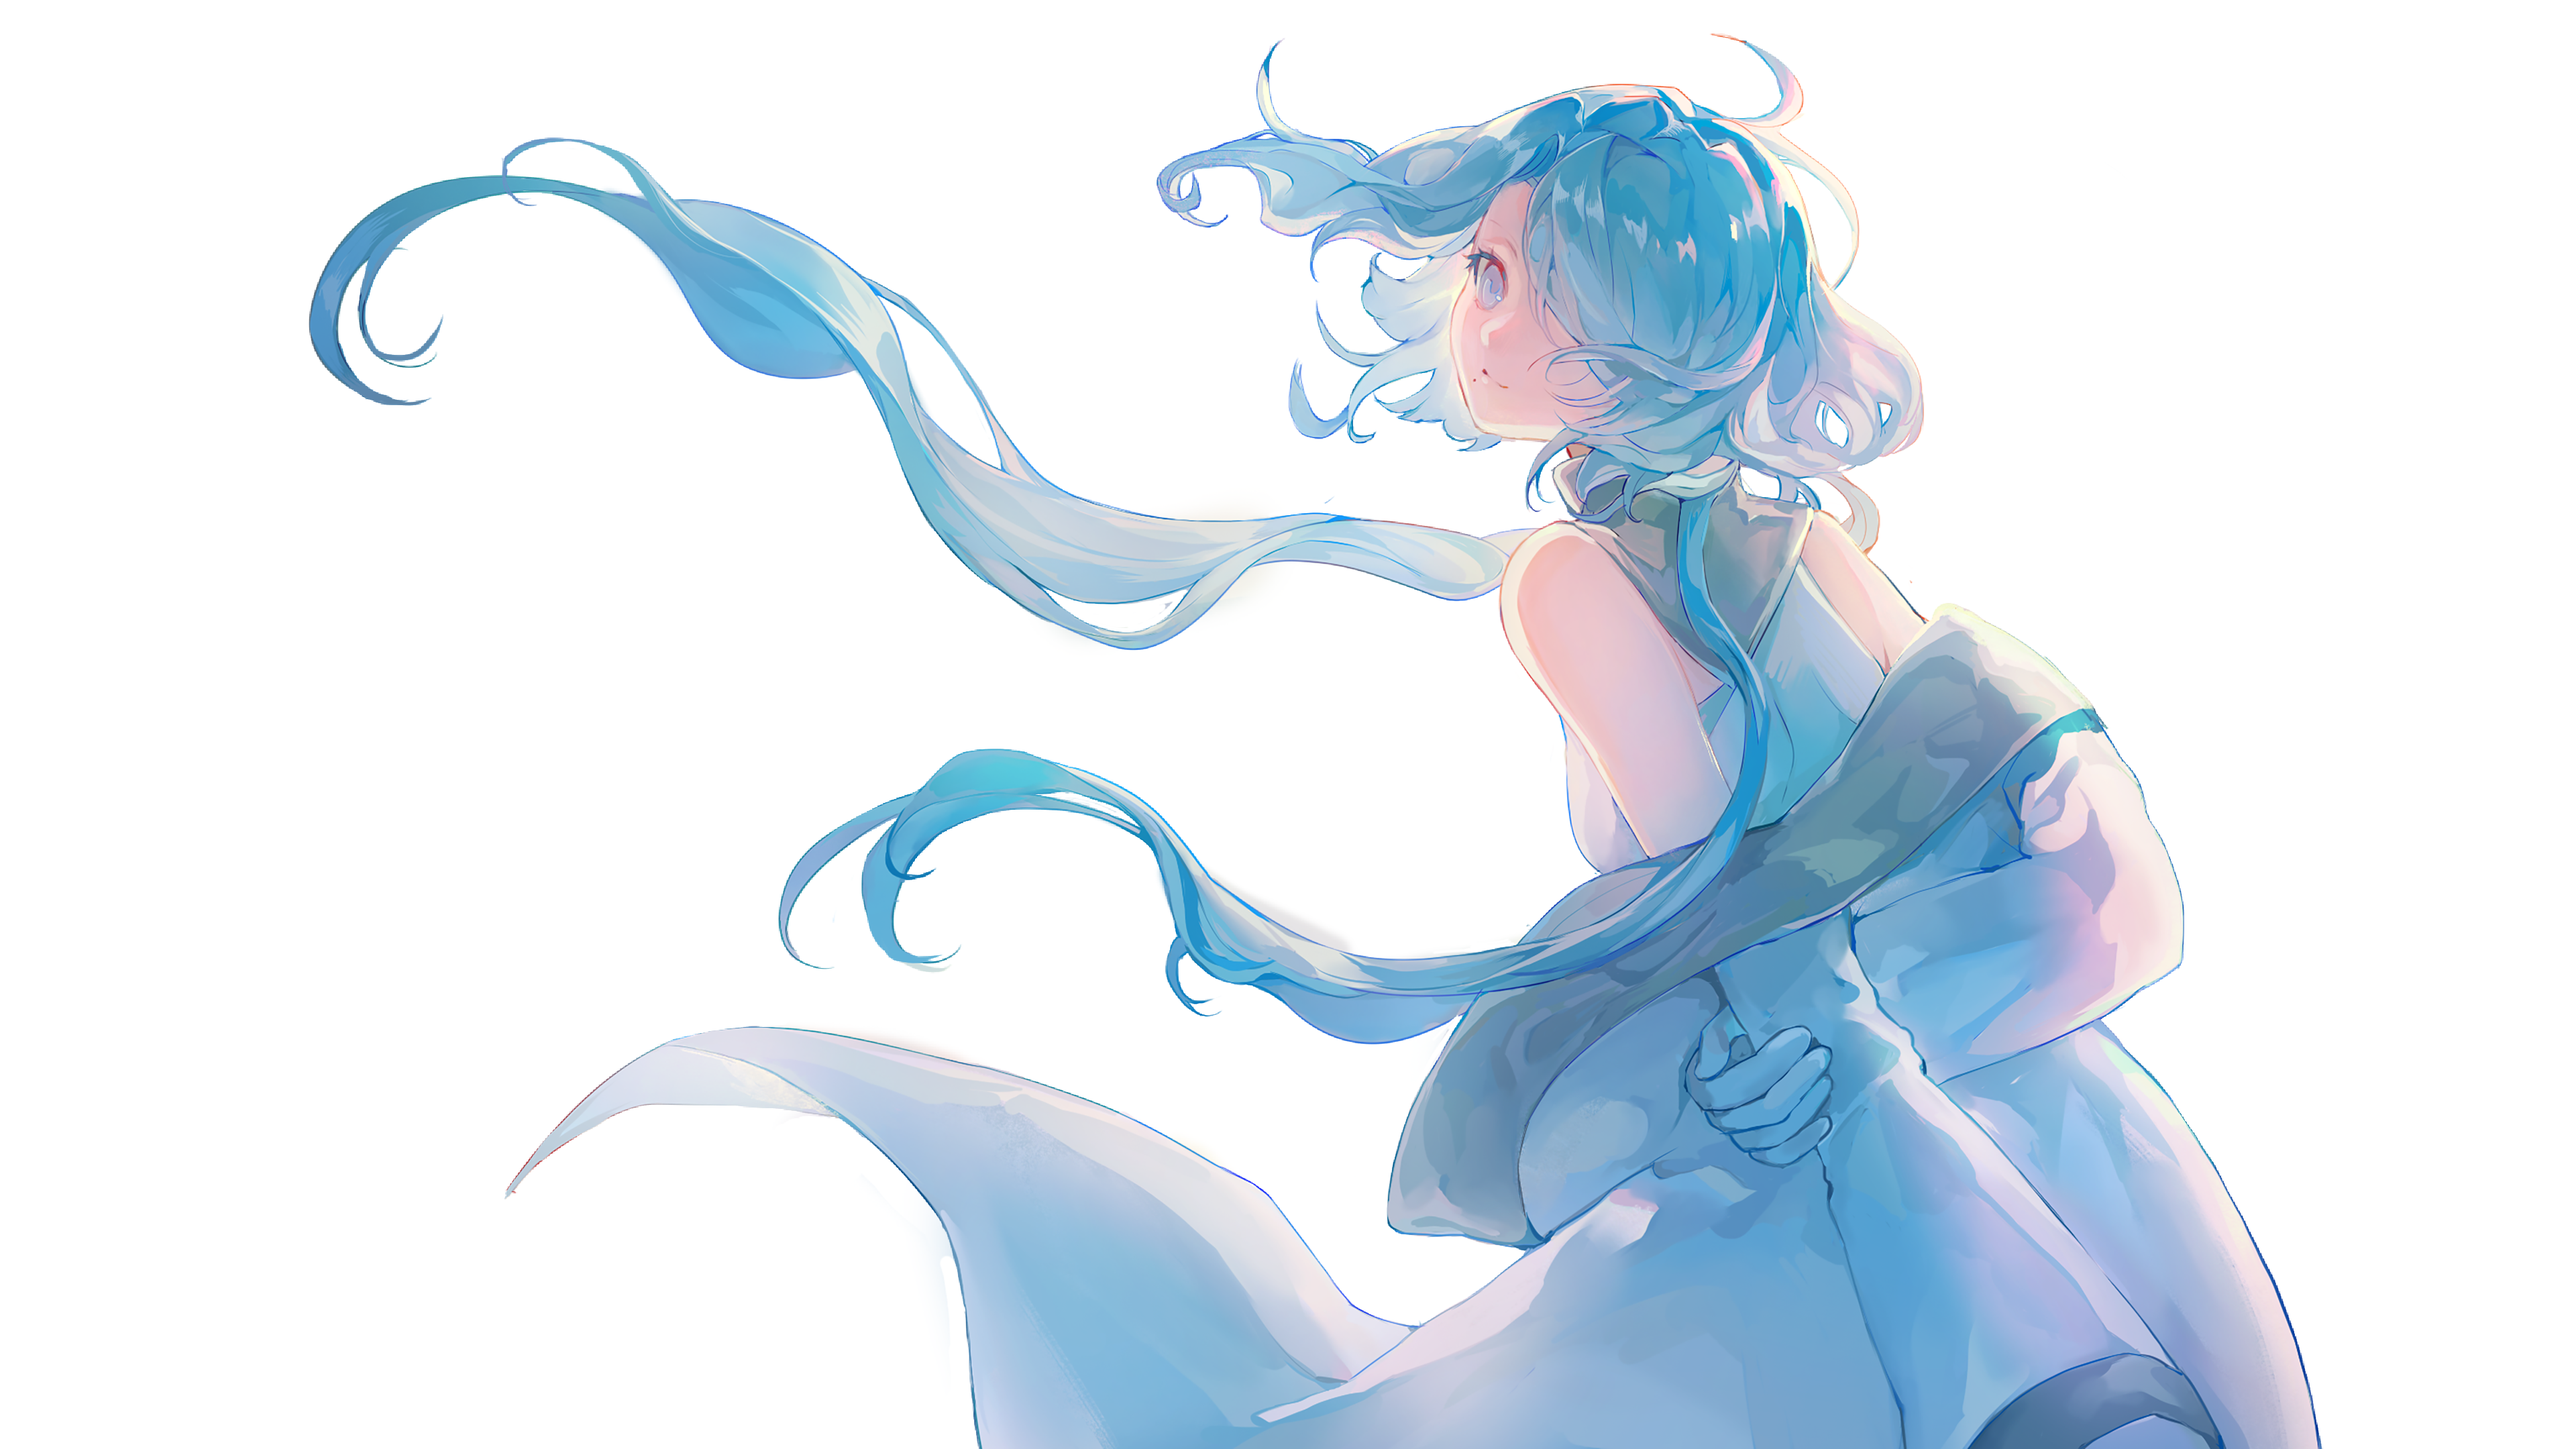
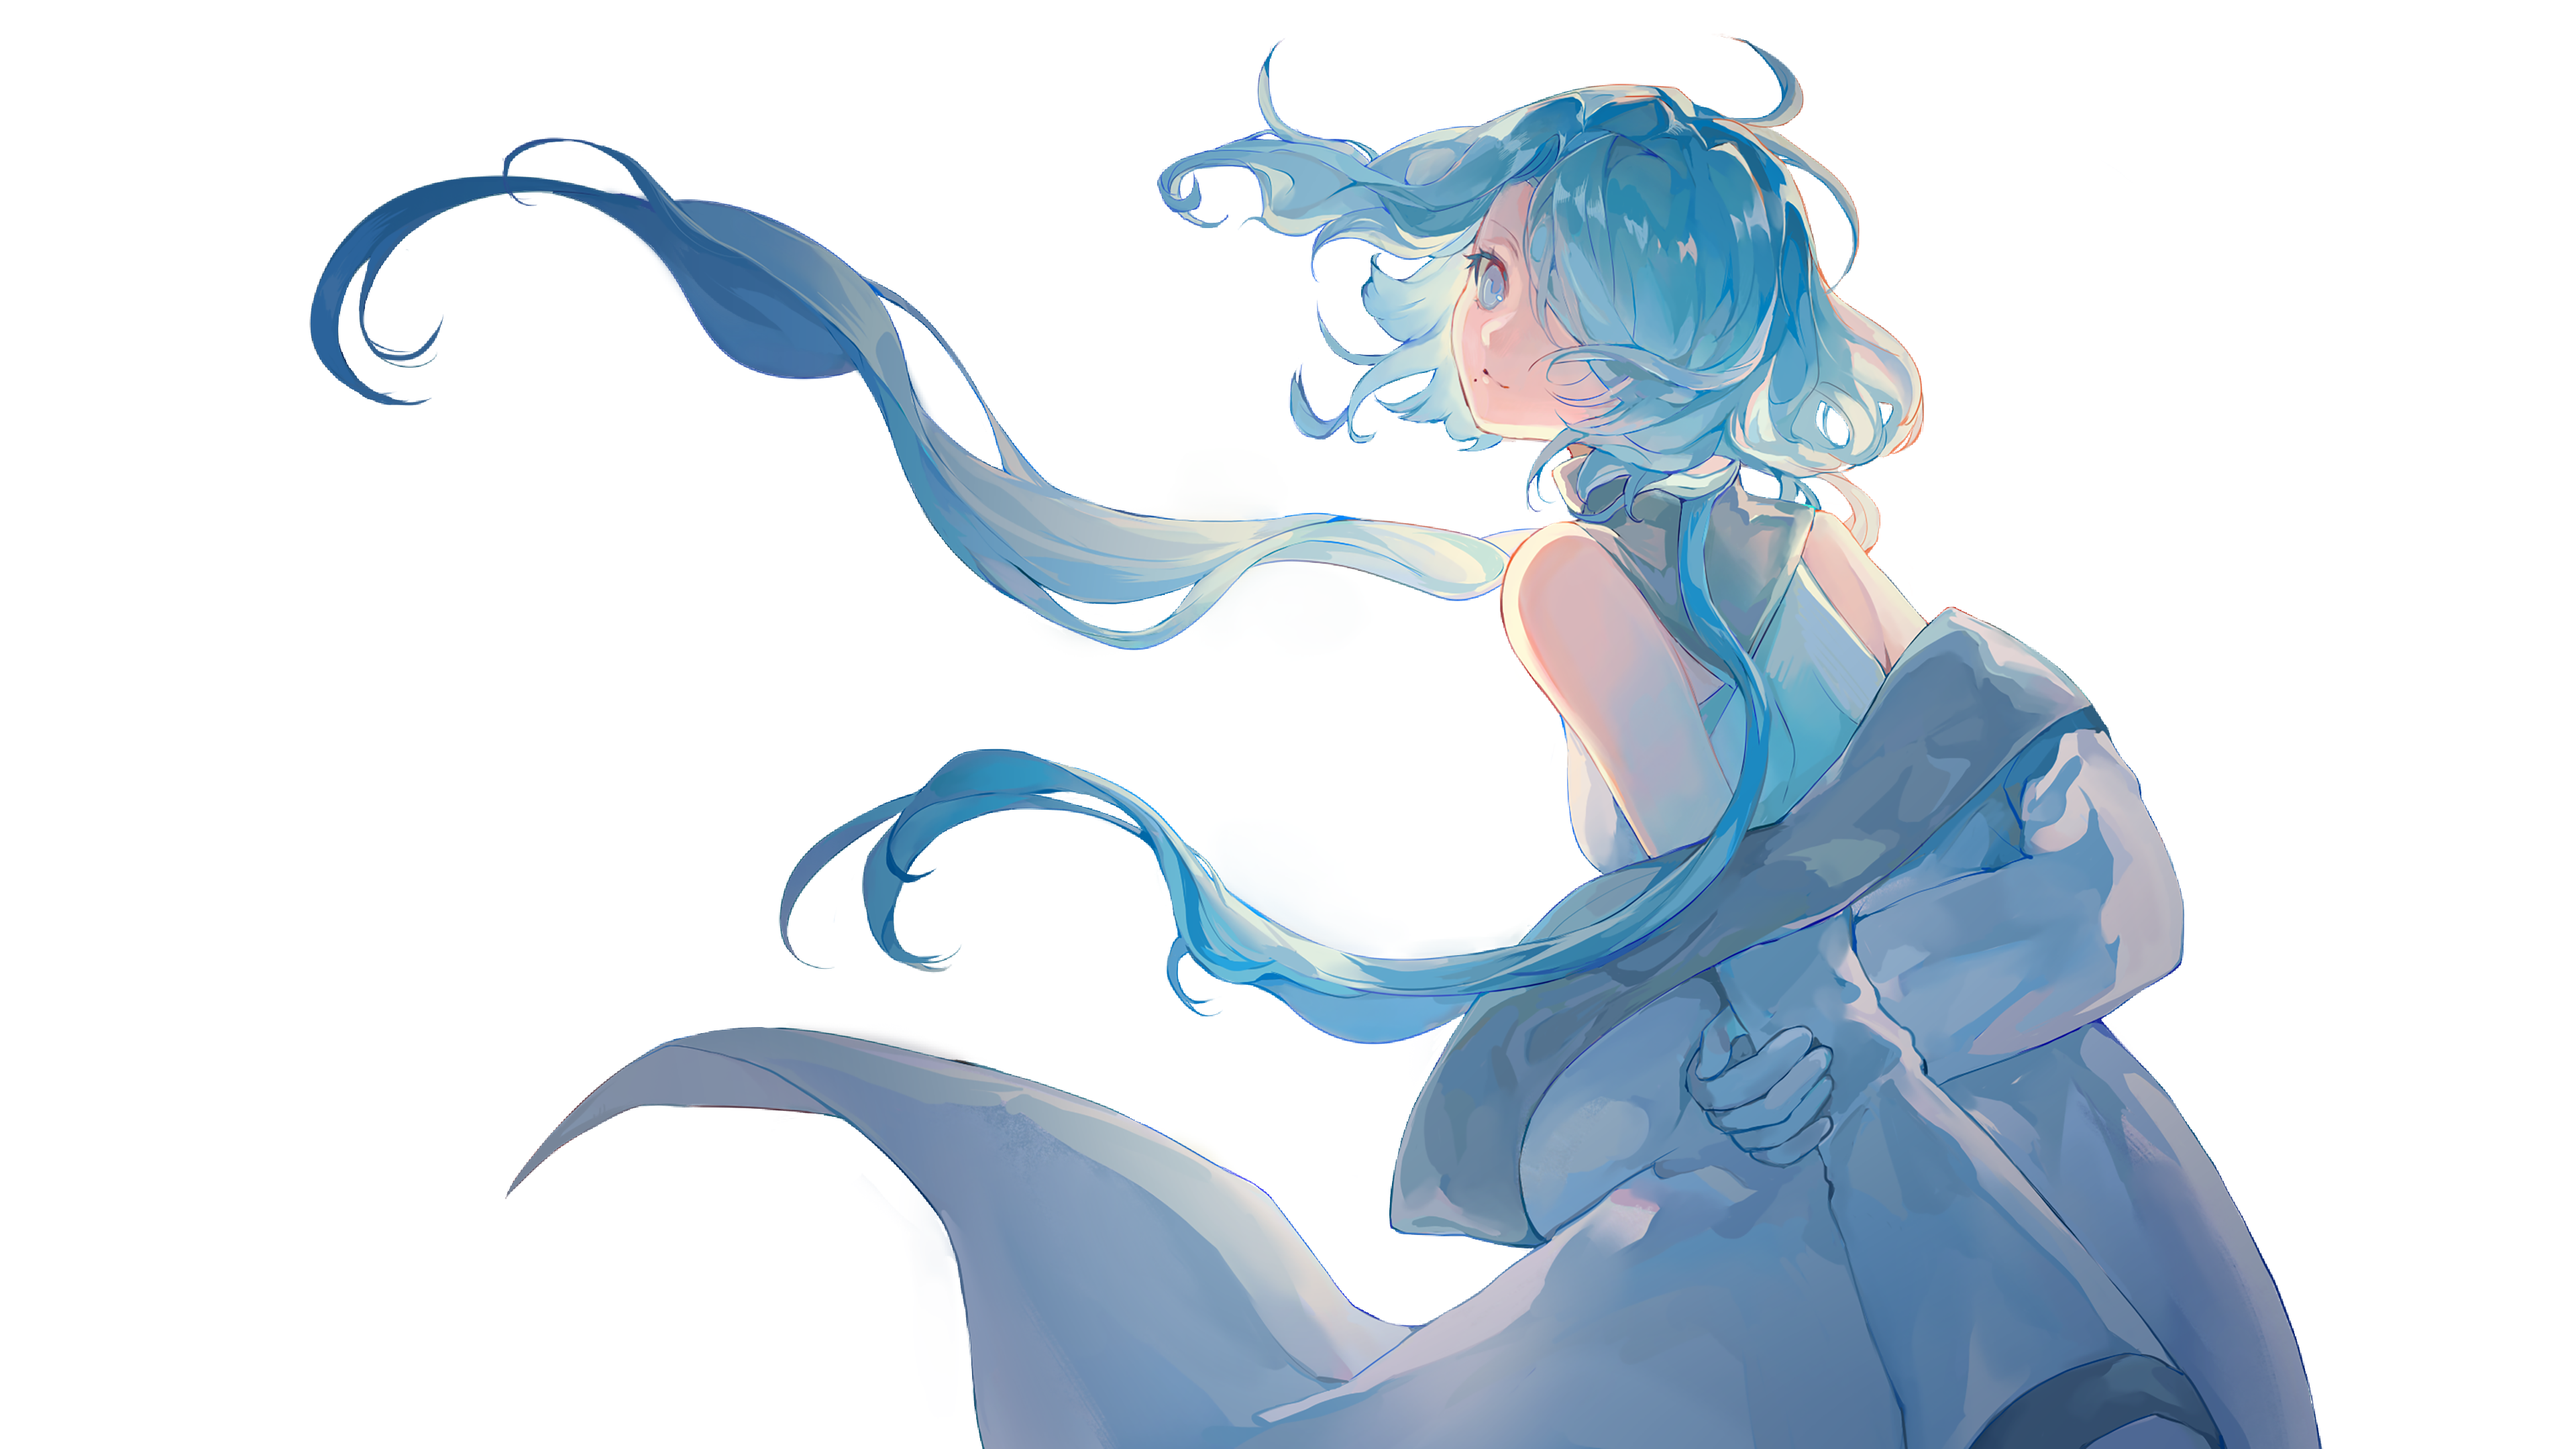
Wire up dessert2 撇嘴 (pout) expression
dessert2_pout art now exists — register the image and add it to 甜品店对视2's
expression map, so the line-386 撇嘴 marker swaps the diff instead of no-op.

diff --git a/convert_script.py b/convert_script.py
@@ -133,7 +133,7 @@ SCENE_EXPRESSIONS = {
     },
     '甜品店对视2': {
         'model': 'full',
-        'map': {'默认': 'dessert2_default'},
+        'map': {'默认': 'dessert2_default', '撇嘴': 'dessert2_pout'},
     },
     '甜品店对视3': {
         'model': 'full',
